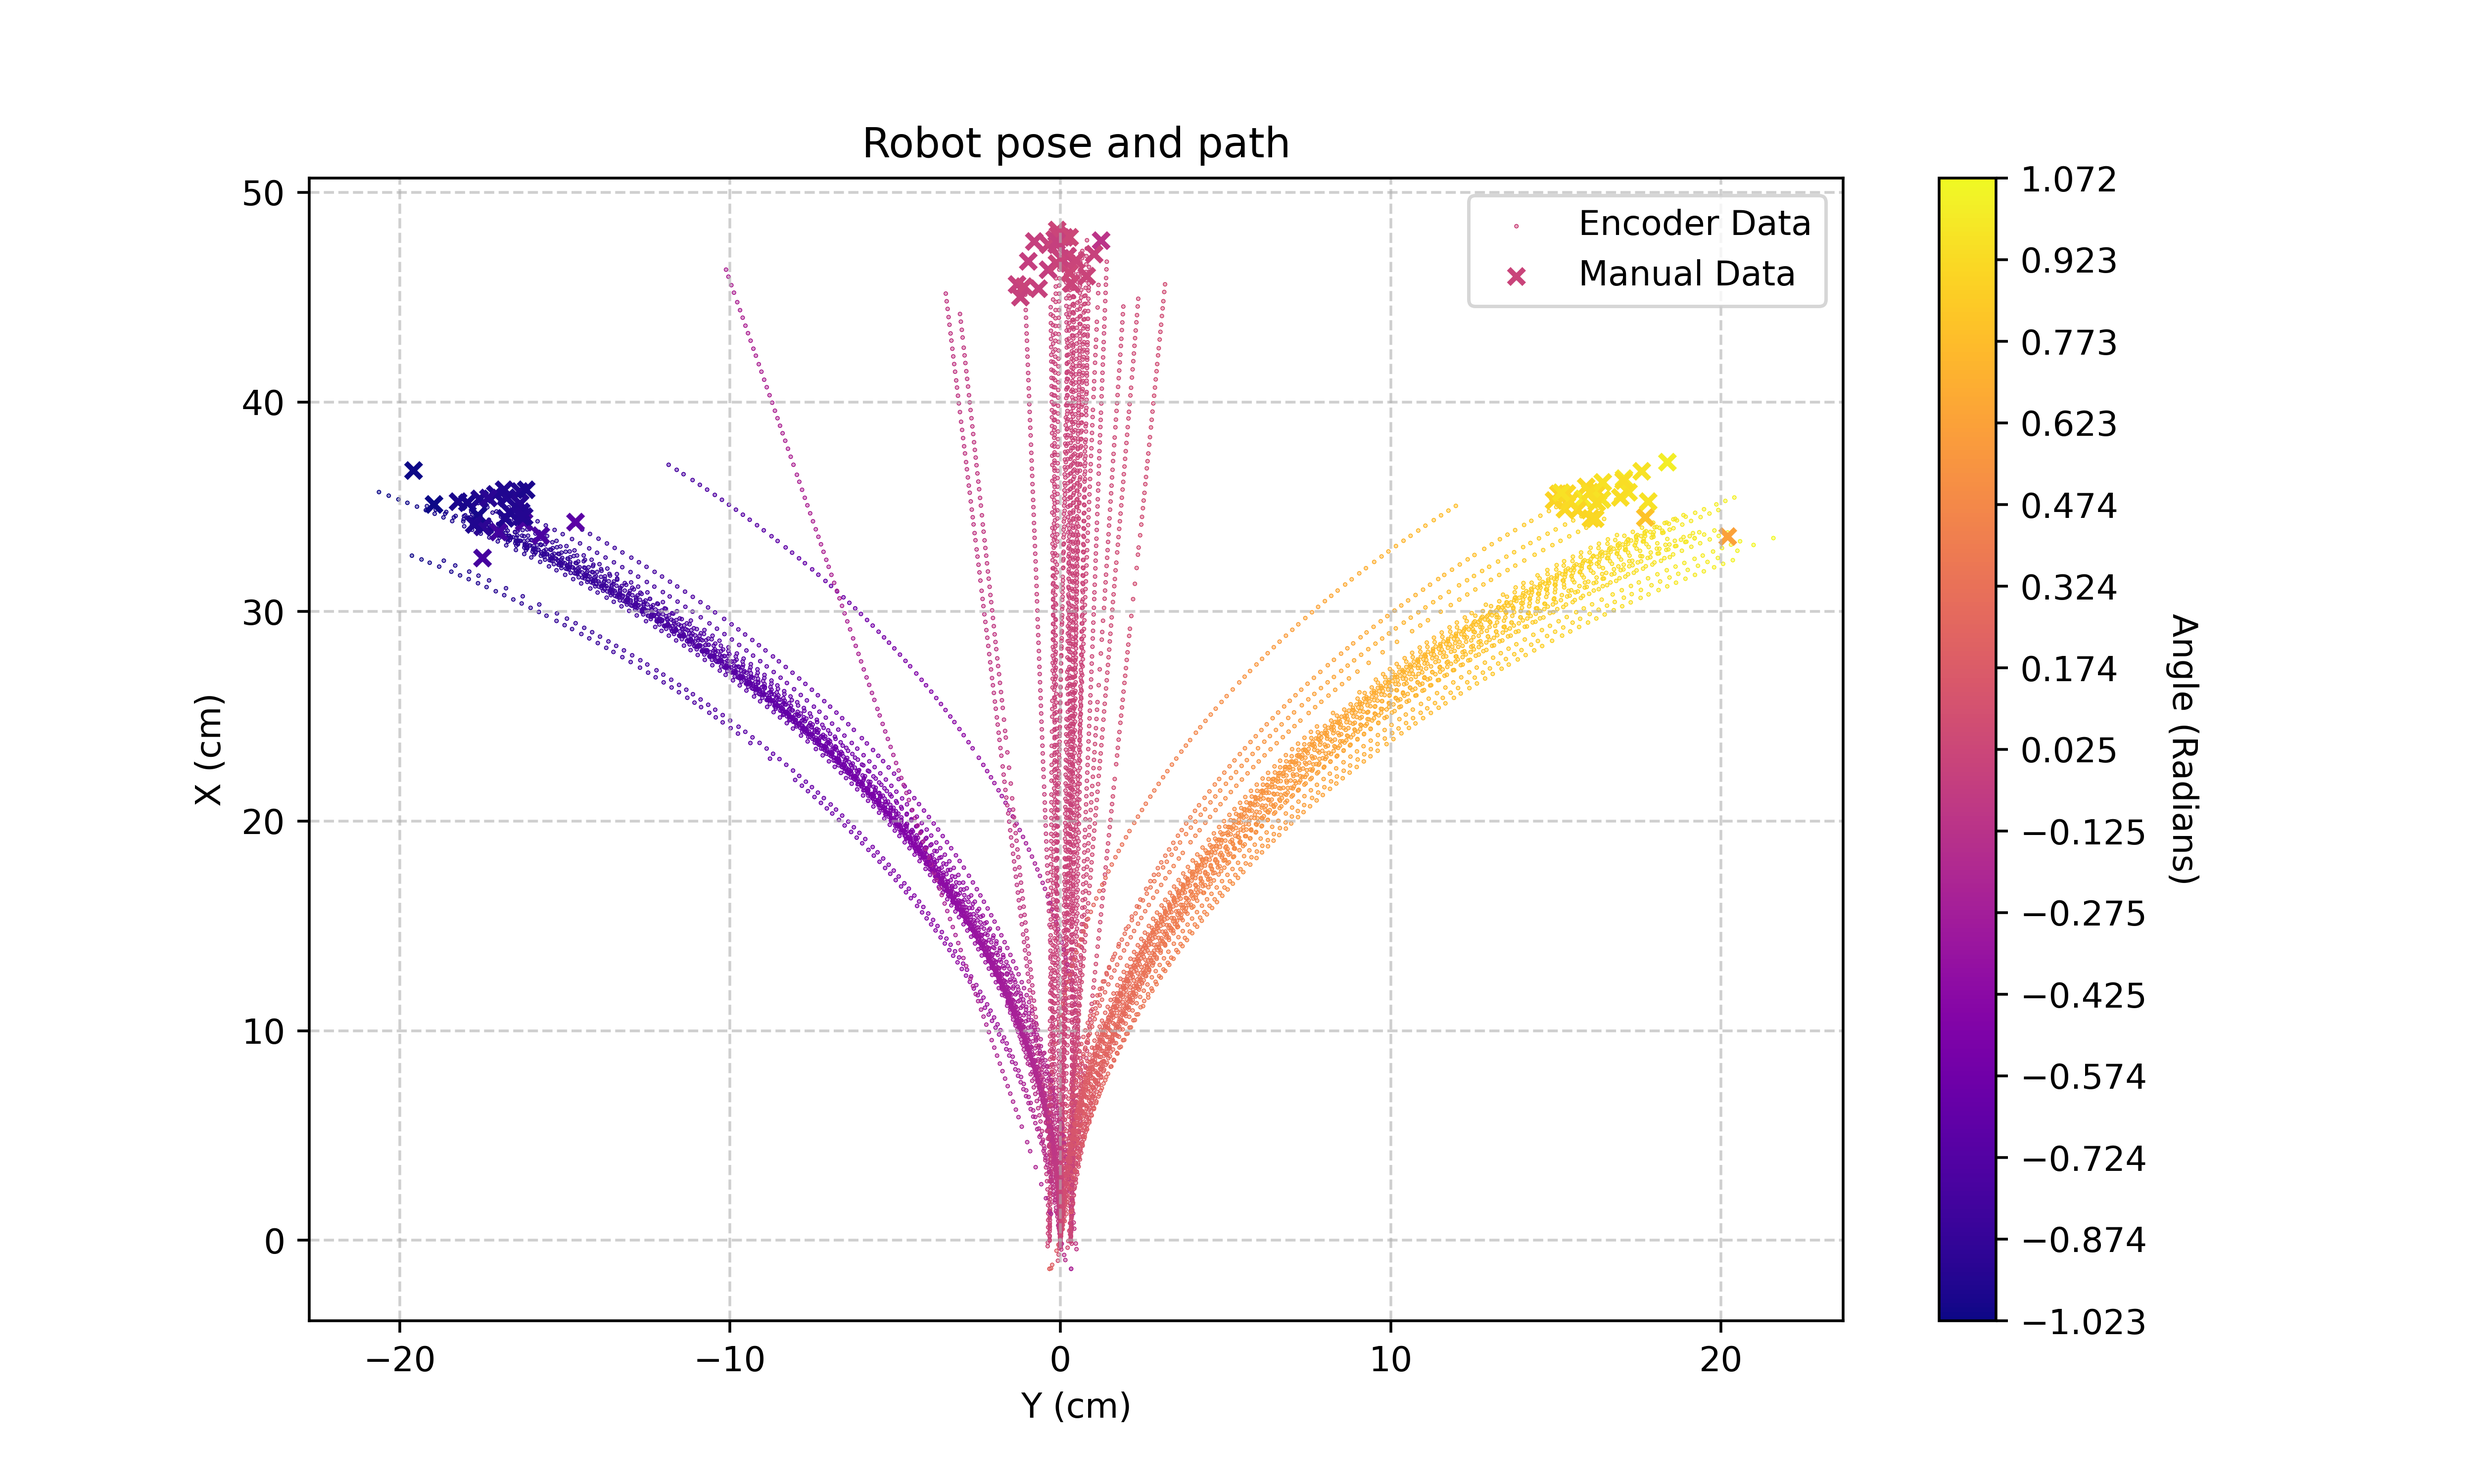
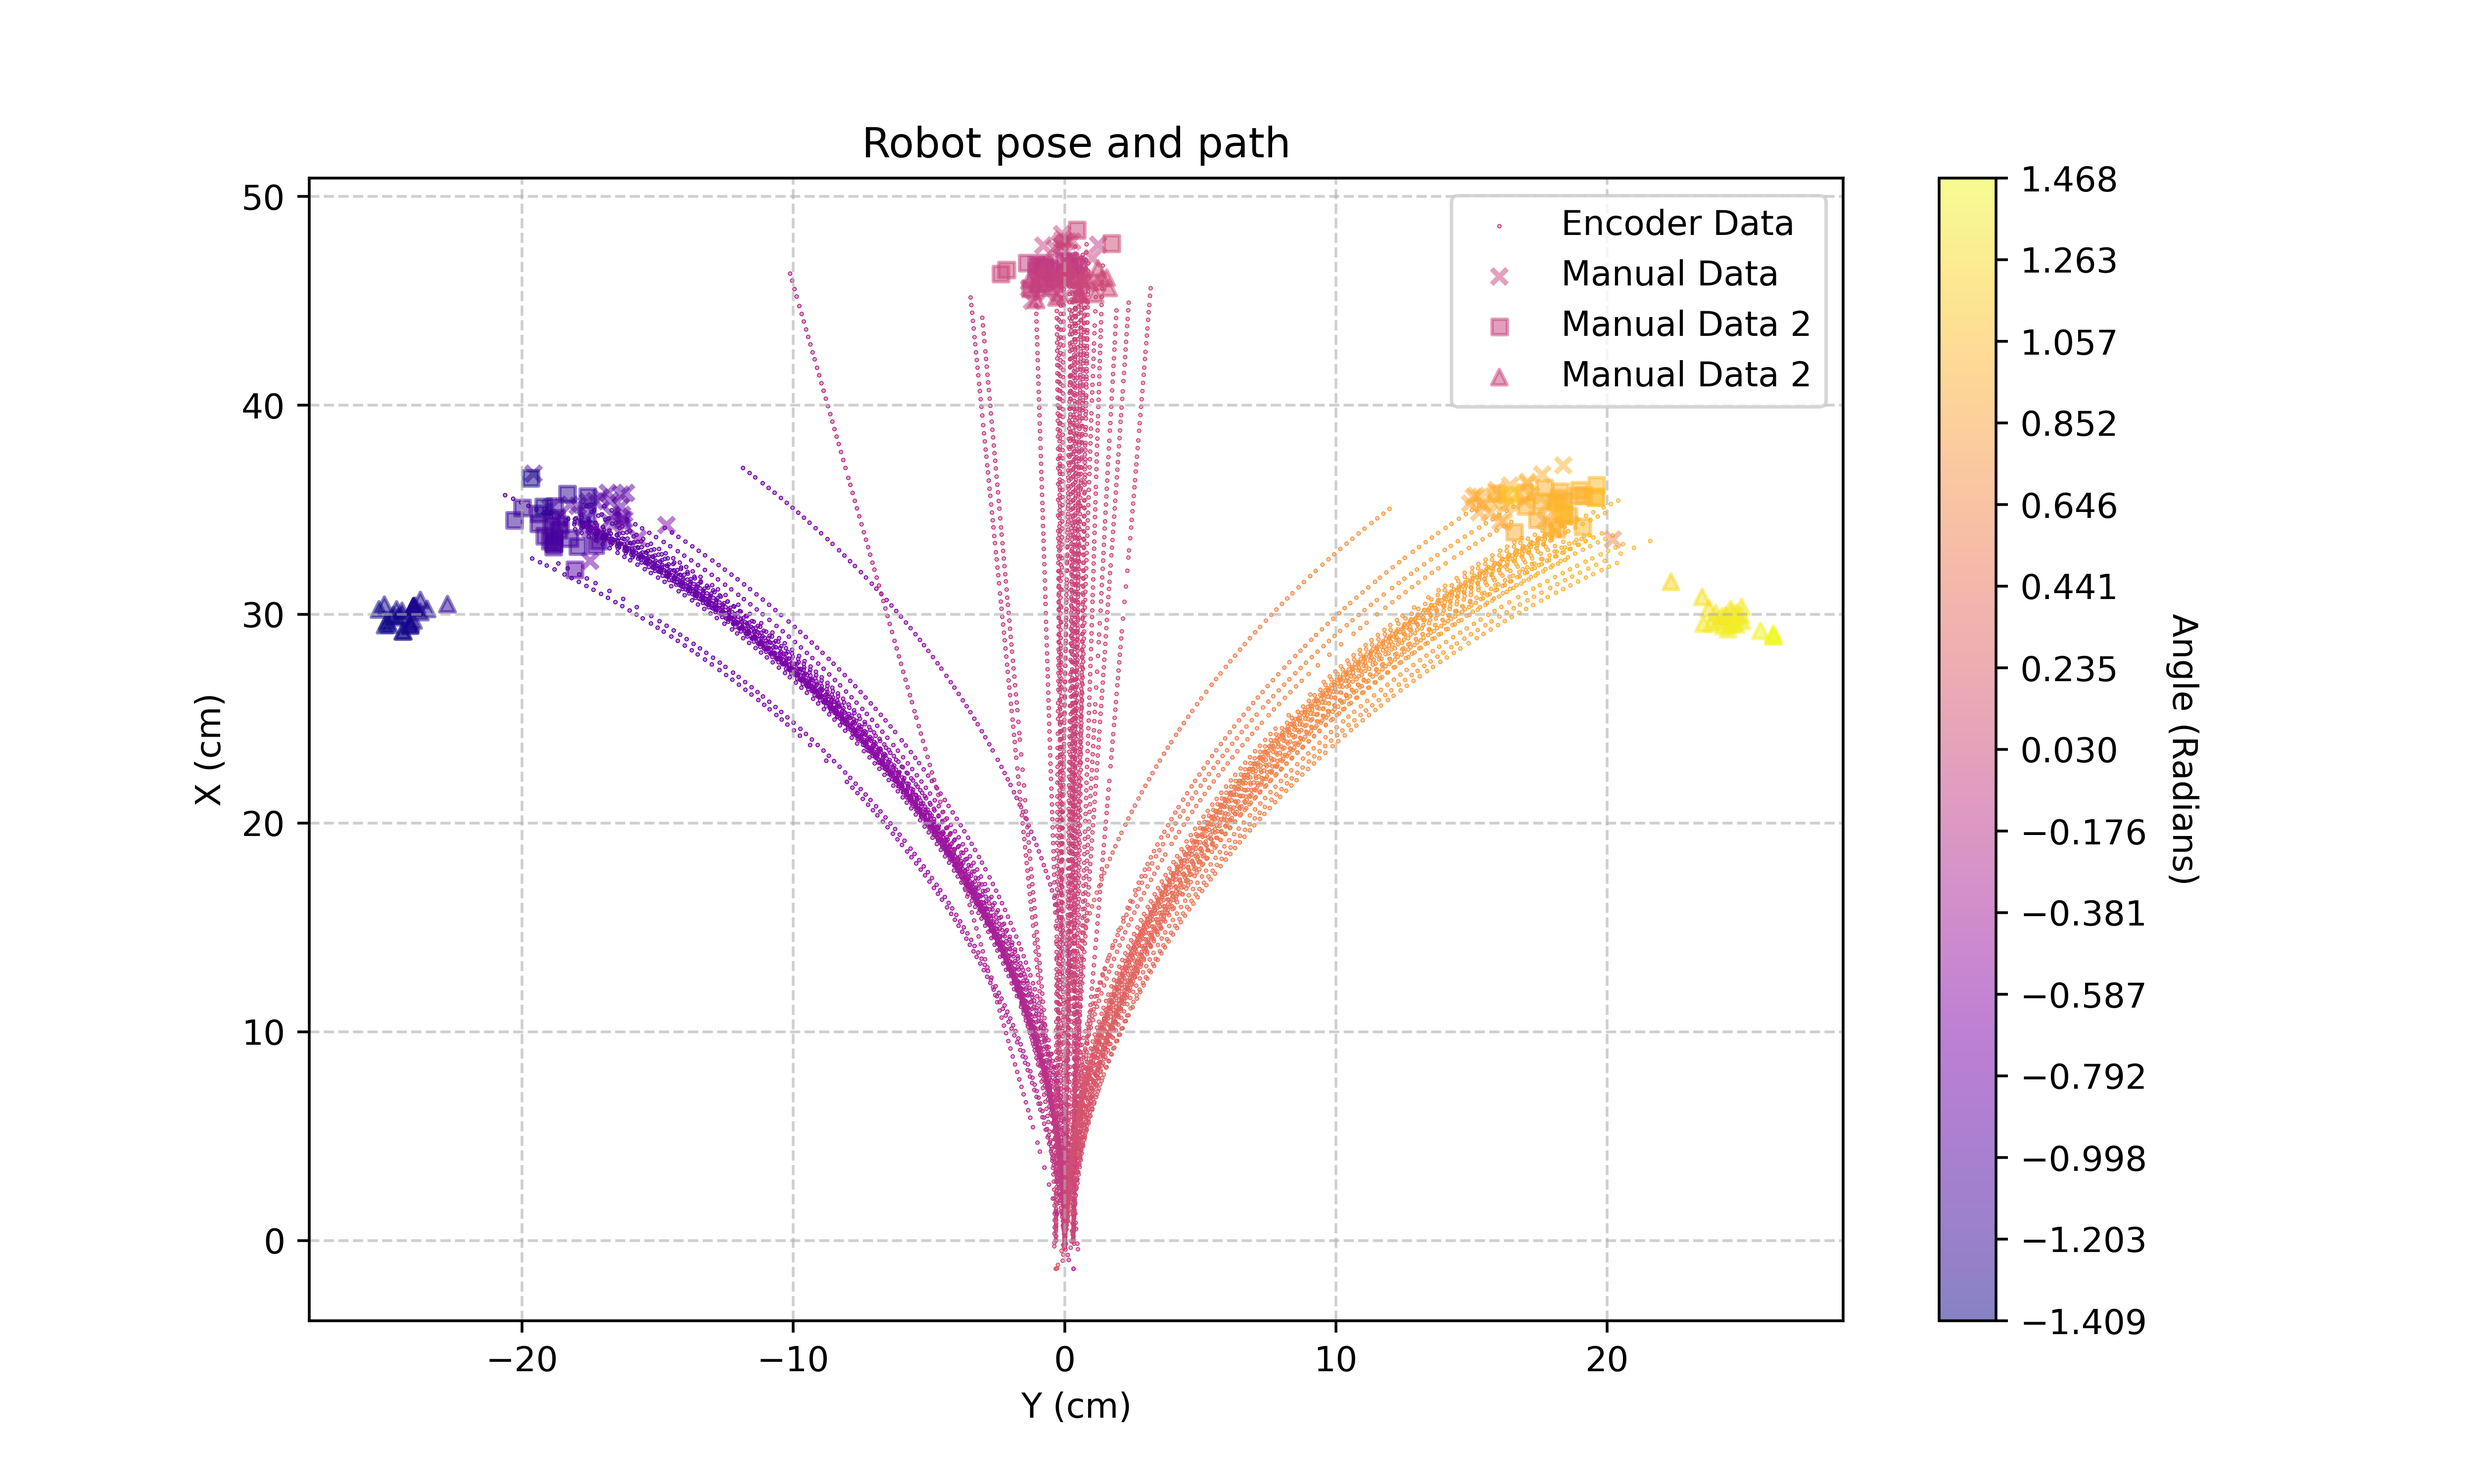
Added more data to plot

diff --git a/code/Calculations.py b/code/Calculations.py
@@ -7,18 +7,16 @@ from Functions import End_Pose, Cov
 
 encoder_file_path = './data/robot_path.csv'
 manual_file_path = './data/manual_measurements.csv'
+manual_file_path2 = './data/rahul_measurements.csv'
+manual_file_path3 = './data/bhavesh_measurements.csv'
 
 try:
     encoder_df = pd.read_csv(encoder_file_path, sep=r'\s+', header=None)
-except FileNotFoundError:
-    print(f"Error: The encoder file was not found at the expected path: {encoder_file_path}. Please double-check the path.")
-    # Exiting the function if the file cannot be loaded
-    exit()
-
-try:
     manual_df = pd.read_csv(manual_file_path, header=None)
+    manual_df2 = pd.read_csv(manual_file_path2, header=None)
+    manual_df3 = pd.read_csv(manual_file_path3)
 except FileNotFoundError:
-    print(f"Error: The manual file was not found at the expected path: {manual_file_path}. Please double-check the path.")
+    print(f"Error: File was not found. Please double-check the path.")
     # Exiting the function if the file cannot be loaded
     exit()
 
@@ -32,21 +30,33 @@ encoder_df['Angle'] = -encoder_df['Angle'] + np.pi/2
 #print(encoder_df['Angle'])
 
 manual_df.columns = ['Lx', 'Ly', 'Rx', 'Ry']
-
 manual_df[['X', 'Y', 'Angle']] = manual_df.apply(End_Pose, axis=1, result_type='expand')
 
+manual_df2.columns = ['Lx', 'Ly', 'Rx', 'Ry']
+manual_df2['Lx'] -= 6.9
+manual_df2['Ly'] += 4.75
+manual_df2['Rx'] -= 6.9
+manual_df2['Ry'] += 4.75
+manual_df2[['X', 'Y', 'Angle']] = manual_df2.apply(End_Pose, axis=1, result_type='expand')
+
+manual_df3['Theta'] *= np.pi/180
 
 # Plot the results
 plt.figure(figsize=(10, 6))
 
-min_angle_encoder_df = encoder_df['Angle'].min()
-max_angle_encoder_df = encoder_df['Angle'].max()
+angles = [
+    encoder_df['Angle'].min(),
+    encoder_df['Angle'].max(),
+    manual_df['Angle'].min(),
+    manual_df['Angle'].max(),
+    manual_df2['Angle'].min(),
+    manual_df2['Angle'].max(),
+    manual_df3['Theta'].min(),
+    manual_df3['Theta'].max(),
+]
 
-min_angle_manual_df = manual_df['Angle'].min()
-max_angle_manual_df = manual_df['Angle'].max()
-
-max_angle = max(max_angle_encoder_df, max_angle_manual_df)
-min_angle = max(min_angle_encoder_df, min_angle_manual_df)
+max_angle = max(angles)
+min_angle = min(angles)
 
 encoder_scatter = plt.scatter(
     encoder_df['Y'],
@@ -65,7 +75,34 @@ manual_scatter = plt.scatter(
     label='Manual Data',
     marker='x',
     s=20,
+    alpha=0.5,
     c=manual_df['Angle'],
+    cmap='plasma',
+    vmin=float(min_angle),
+    vmax=float(max_angle)
+)
+
+manual_scatter2 = plt.scatter(
+    manual_df2['Y'],
+    manual_df2['X'],
+    label='Manual Data 2',
+    marker='s',
+    s=20,
+    alpha=0.5,
+    c=manual_df2['Angle'],
+    cmap='plasma',
+    vmin=float(min_angle),
+    vmax=float(max_angle)
+)
+
+manual_scatter3 = plt.scatter(
+    manual_df3['Y'],
+    manual_df3['X'],
+    label='Manual Data 2',
+    marker='^',
+    s=20,
+    alpha=0.5,
+    c=manual_df3['Theta'],
     cmap='plasma',
     vmin=float(min_angle),
     vmax=float(max_angle)

diff --git a/subfiles/exp02/deliv02_images_and_visualisation.tex b/subfiles/exp02/deliv02_images_and_visualisation.tex
@@ -1,0 +1,8 @@
+\begin{figure}[H]
+    \centering
+    \includegraphics[width=\linewidth]{figures/pose_scatter_plot.png}
+	\caption{Combined pose plot of encoder readings and manual measurements}
+	\label{fig:pose_plot}
+\end{figure}
+
+Figure \ref{fig:pose_plot} depicts the robot end pose, calculated from the manual measurements, as well as the robots trajectory, calculated from the encoder data. 
